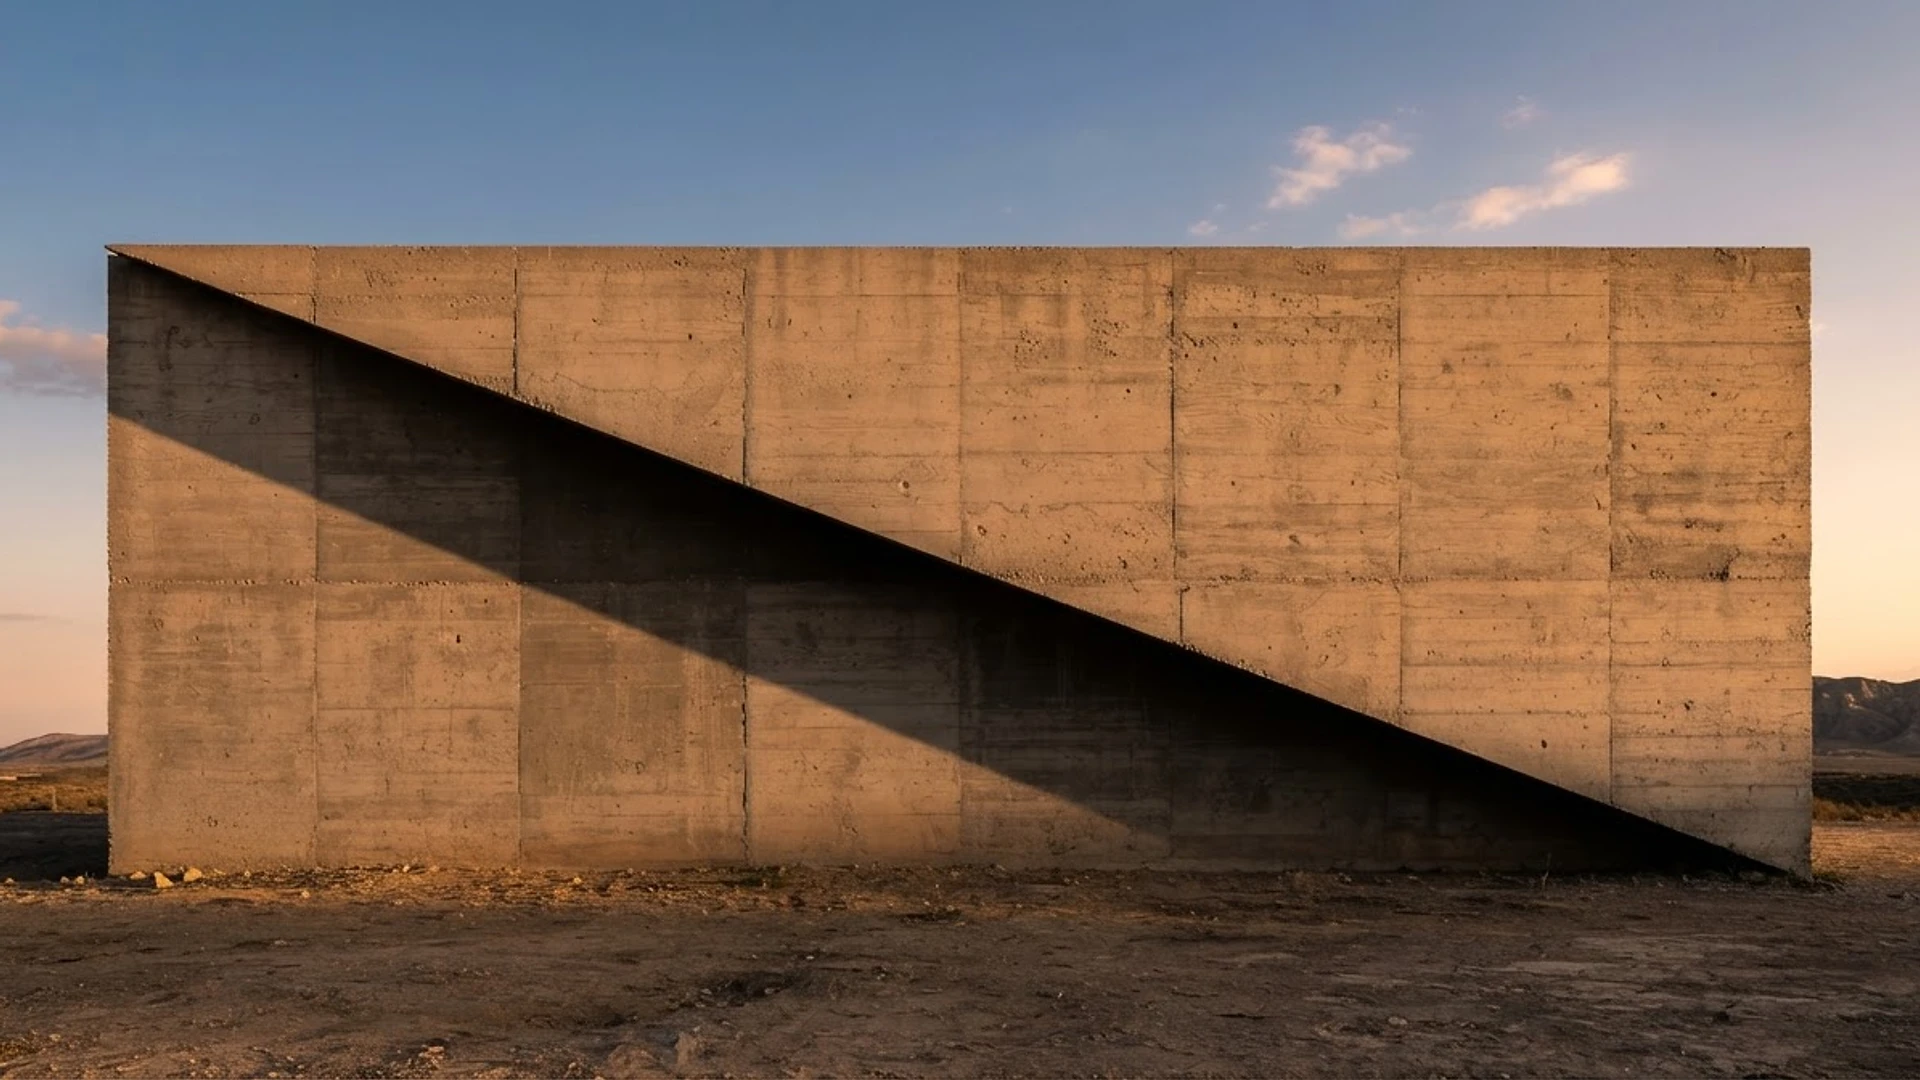
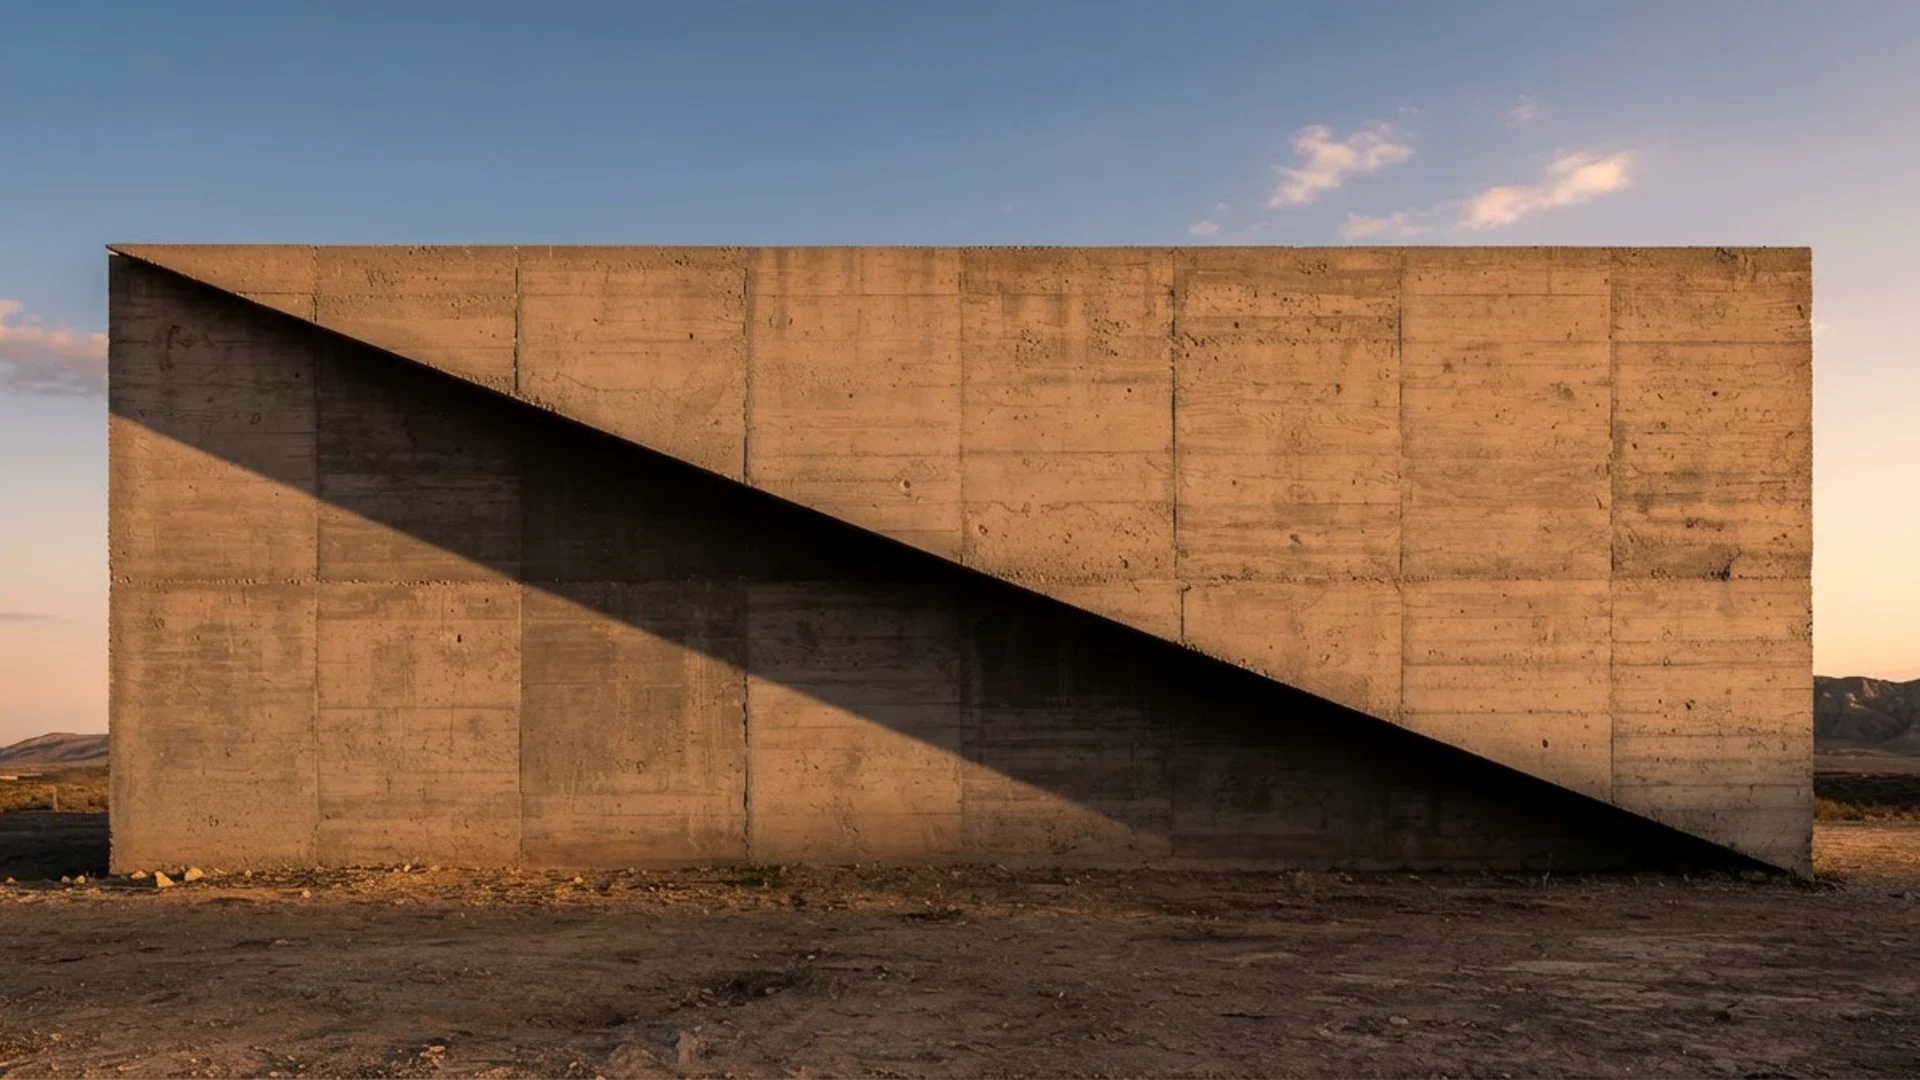
Show Base44 architectural hero photo in bright mode.
Refresh hero.webp from jacobsongal.base44.app and replace the opaque cream overlay with a soft wash plus hero fade so the photo is visible behind the bright-theme hero.

diff --git a/css/appearance.css b/css/appearance.css
@@ -175,9 +175,25 @@ html[data-appearance="light"]:has(.app--continuous-hero) body,
 }
 
 [data-appearance="light"] .page-backdrop .hero-image--editorial {
-  opacity: 0.5;
+  opacity: 0.82;
   visibility: visible;
-  filter: saturate(0.92) contrast(1.03);
+  filter: saturate(0.96) contrast(1.04) brightness(1.02);
+  object-position: center 40%;
+  /* Keep the Base44 photo strong in the hero, then fade into the cream page */
+  -webkit-mask-image: linear-gradient(
+    to bottom,
+    #000 0%,
+    #000 52%,
+    rgba(0, 0, 0, 0.55) 72%,
+    transparent 100%
+  );
+  mask-image: linear-gradient(
+    to bottom,
+    #000 0%,
+    #000 52%,
+    rgba(0, 0, 0, 0.55) 72%,
+    transparent 100%
+  );
 }
 
 [data-appearance="light"] .hero {
@@ -233,9 +249,23 @@ html[data-appearance="light"]:has(.app--continuous-hero) body,
 }
 
 [data-appearance="light"] .hero-gradient {
+  /* Soft wash over the Base44 architectural photo — readable type, visible image */
   background:
-    radial-gradient(ellipse 70% 50% at 82% 8%, hsl(18 42% 46% / 0.07), transparent 55%),
-    linear-gradient(180deg, hsl(38 24% 97%) 0%, hsl(38 24% 94%) 100%);
+    linear-gradient(
+      to top,
+      hsl(38 24% 94%) 0%,
+      hsl(38 24% 94% / 0.78) 16%,
+      hsl(38 24% 94% / 0.28) 42%,
+      hsl(38 24% 97% / 0.22) 70%,
+      hsl(38 24% 97% / 0.38) 100%
+    ),
+    linear-gradient(
+      112deg,
+      hsl(38 24% 94% / 0.62) 0%,
+      hsl(38 24% 94% / 0.18) 36%,
+      transparent 64%
+    ),
+    radial-gradient(ellipse 70% 50% at 82% 8%, hsl(18 42% 46% / 0.08), transparent 55%);
 }
 
 [data-appearance="light"] .hero-grid,
